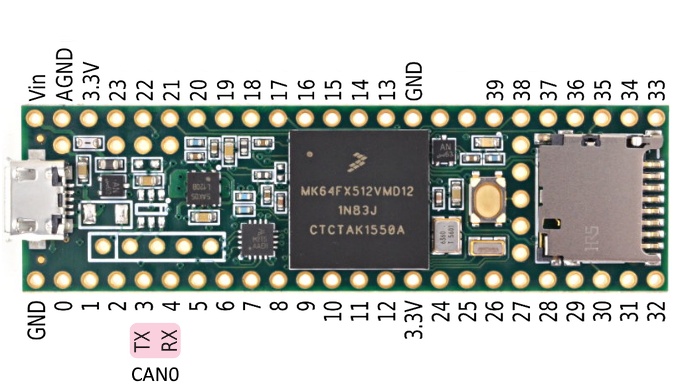
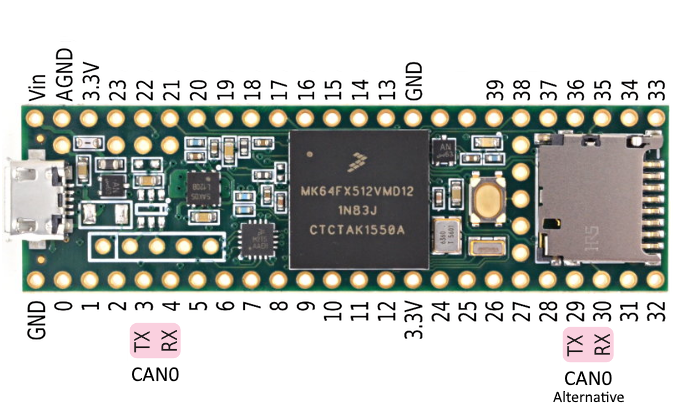
Added alternative CAN pins description/pictures

diff --git a/README.md b/README.md
@@ -3,17 +3,17 @@
 ###Introduction
 FlexCAN is a serial communication driver for the CAN peripherial built into the Teensy CPUs. Versions 3.1, 3.2 and 3.5 of the board support single CAN0 controller while version 3.6 supports dual CAN0/CAN1 controllers.  The driver is organized in the Arduino library format.
 
-When the FlexCAN object is constructed on Teensy 3.1/3.2, Arduino pins Digital 3 and Digital 4 are assigned to CAN functions TX and RX.
+When the FlexCAN object is constructed on Teensy 3.1/3.2, Arduino pins Digital 3 and Digital 4 (or alternateively Digital 32 and Digital 25) are assigned to CAN functions TX and RX.
 
-![Teensy 3.1/3.2 CAN Pins, Digital3=TX, Digital4=RX](/FlexCAN_pins.png)
+![Teensy 3.1/3.2 CAN Pins, Digital3=TX, Digital4=RX](/FlexCAN_pins.png) ![Teensy 3.1/3.2 Alternative CAN Pins, Digital32=TX, Digital25=RX](/FlexCAN_pins_alt.png)
 
-Similarily on Teensy 3.5, the same Arduino pins Digital 3 and Digital 4 are assigned to CAN functions TX and RX.
+Similarily on Teensy 3.5, the same Arduino pins Digital 3 and Digital 4 (or alternateively Digital 29 and Digital 30) are assigned to CAN functions TX and RX.
 
-![Teensy 3.5 CAN Pins, Digital3=TX, Digital4=RX](/FlexCAN_pins_35.png)
+![Teensy 3.5 CAN Pins, Digital3=TX, Digital4=RX (or alternatively Digital29=TX, Digital30=RX)](/FlexCAN_pins_35.png)
 
-On Teensy 3.6 it is possible to to specify the **id** parameter and select whether CAN0 or CAN1 shall be used. For CAN0 Arduino pins Digital 3 and Digital 4 are assigned to CAN functions TX and RX. For CAN1 Arduino pins Digital 34 and Digital 33 are assigned to CAN functions TX and RX.
+On Teensy 3.6 it is possible to to specify the **id** parameter and select whether CAN0 or CAN1 shall be used. For CAN0 Arduino pins Digital 3 and Digital 4 (or alternateively Digital 29 and Digital 30) are assigned to CAN functions TX and RX. For CAN1 Arduino pins Digital 34 and Digital 33 are assigned to CAN functions TX and RX.
 
-![Teensy 3.6 CAN Pins, CAN0: Digital3=TX and Digital4=RX, CAN1: Digital34=TX and Digital33=RX](/FlexCAN_pins_36.png)
+![Teensy 3.6 CAN Pins, CAN0: Digital3=TX and Digital4=RX (or alternatively Digital29=TX, Digital30=RX), CAN1: Digital34=TX and Digital33=RX](/FlexCAN_pins_36.png)
 
 CAN RX and TX pins should be wired to a 3.3V CAN transceiver TXD and RXD respectively to allow connection of the Teensy 3.1/3.2/3.5/3.6 to a CAN network.
 
